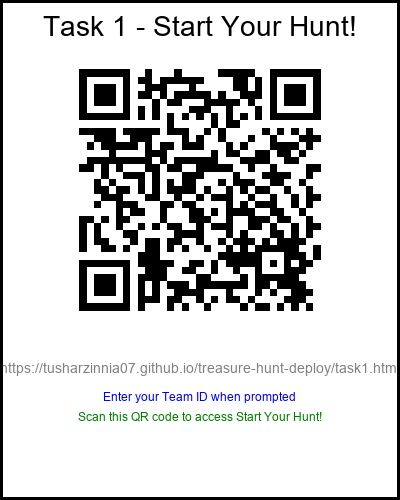
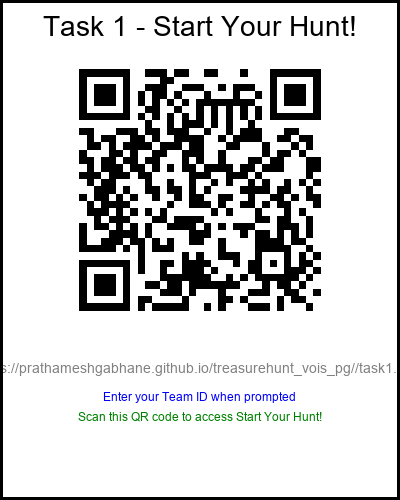
last changes

Changed region(s): [[0.18, 0.12, 0.81, 0.63], [0.0, 0.72, 0.99, 0.75]]

diff --git a/generate_qr_codes.py b/generate_qr_codes.py
@@ -82,7 +82,7 @@ def create_qr_code_with_label(url, label, filename):
 
 def main():
     # 🚨 YOUR GITHUB PAGES URL
-    base_url = "https://tusharzinnia07.github.io/treasure-hunt-deploy"
+    base_url = "https://prathameshgabhane.github.io/treasurehunt_vois_pg/"
     
     print("🎯 Generating QR Codes for Treasure Hunt Game")
     print("=" * 50)
